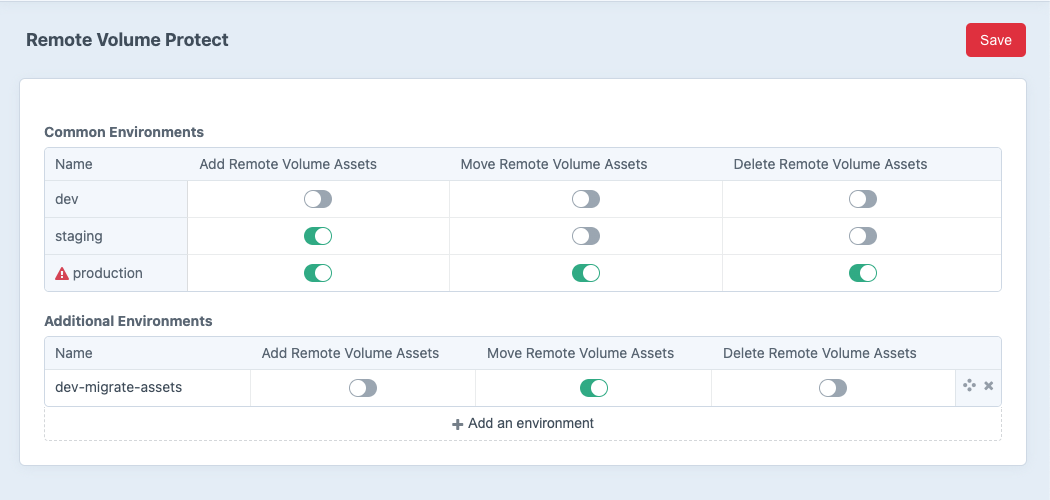
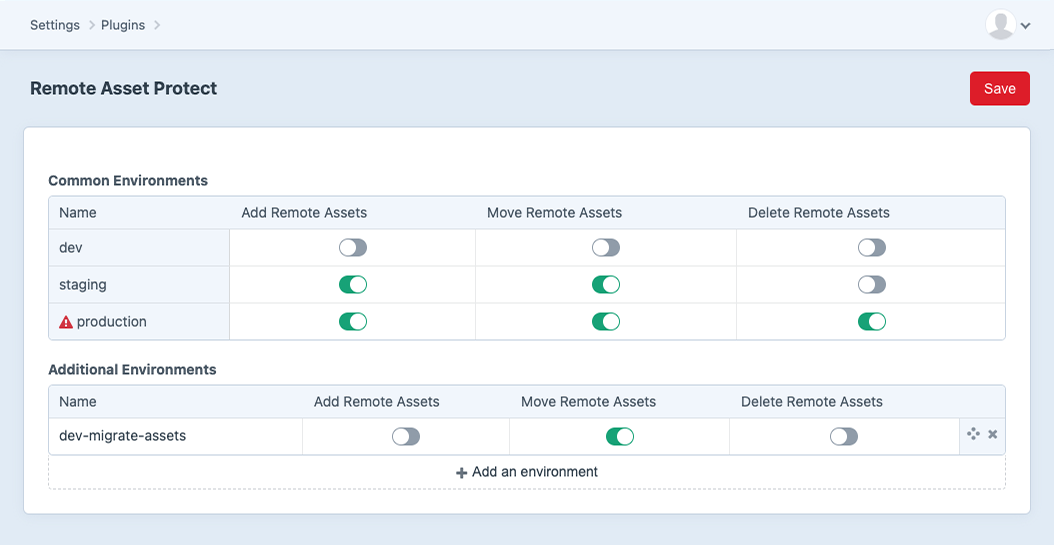
Rename plugin
- Rename plugin from `remote-volume-protect` to `remote-asset-protect`.

diff --git a/src/RemoteAssetProtect.php b/src/RemoteAssetProtect.php
@@ -1,5 +1,5 @@
 <?php
-namespace williamisted\remotevolumeprotect;
+namespace williamisted\remoteassetprotect;
 
 use Craft;
 use craft\elements\Asset;
@@ -10,9 +10,9 @@ use craft\services\Volumes;
 use craft\web\twig\variables\CraftVariable;
 use yii\base\Event;
 
-use williamisted\remotevolumeprotect\models\Settings;
+use williamisted\remoteassetprotect\models\Settings;
 
-class RemoteVolumeProtect extends craft\base\Plugin
+class RemoteAssetProtect extends craft\base\Plugin
 {
     public $settingsSchema = '1.0.0';
 
@@ -49,7 +49,7 @@ class RemoteVolumeProtect extends craft\base\Plugin
         $this->commonEnvironments[1][0] = 'staging';
         $this->commonEnvironments[2][0] = 'production';
 
-        $this->uncommonEnvironments = $this->getSettings()->uncommonEnvironments;
+        $this->uncommonEnvironments = $this->getSettings()->uncommonEnvironments ?: [];
 
         foreach ( array_merge( $this->commonEnvironments, $this->uncommonEnvironments ) as $env ) {
             $this->environments[ $env[0] ] = $env;
@@ -61,7 +61,7 @@ class RemoteVolumeProtect extends craft\base\Plugin
             function (craft\events\PluginEvent $event) {
                 
                 // Respect existing project config.
-                if ( Craft::$app->projectConfig->get('plugins.remotevolumeprotect', true) === null ) {
+                if ( Craft::$app->projectConfig->get('plugins.remoteassetprotect', true) === null ) {
                     $this->initSettings = true;
                 }
 
@@ -73,7 +73,7 @@ class RemoteVolumeProtect extends craft\base\Plugin
             Plugins::EVENT_AFTER_INSTALL_PLUGIN,
             function (craft\events\PluginEvent $event) {
 
-                if ('remotevolumeprotect' === $event->plugin->handle) {
+                if ('remoteassetprotect' === $event->plugin->handle) {
                 
                     // Was existing project config found? Should plugin initialize defaults
                     if ( $this->initSettings ) {
@@ -203,7 +203,7 @@ class RemoteVolumeProtect extends craft\base\Plugin
 
     protected function settingsHtml(): string
     {
-        return Craft::$app->getView()->renderTemplate('remotevolumeprotect/_settings', [
+        return Craft::$app->getView()->renderTemplate('remoteassetprotect/_settings', [
             'settings' => $this->getSettings(),
         ]);
     }

diff --git a/src/models/Settings.php b/src/models/Settings.php
@@ -1,5 +1,5 @@
 <?php
-namespace williamisted\remotevolumeprotect\models;
+namespace williamisted\remoteassetprotect\models;
 
 use craft\base\Model;
 

diff --git a/README.md b/README.md
@@ -1,8 +1,8 @@
-# Remote Volume Protect for Craft CMS
+# Remote Asset Protect for Craft CMS
 
-<img alt="Icon of a red shield containing a padlock depicting an asset being locked" width="100" src="https://raw.githubusercontent.com/WilliamIsted/craft-remote-volume-protect/craft-3/src/icon.svg">
+<img alt="Icon of a red shield containing a padlock depicting an asset being locked" width="100" src="https://raw.githubusercontent.com/WilliamIsted/craft-remote-asset-protect/craft-3/src/icon.svg">
 
-Spaces, beware: Remote Volume Protect is here! This Craft CMS plugin protects your remote volumes from accidental deletions by developers on dev and staging environments.
+Never accidentally delete assets again. Spaces, beware: Remote Asset Protect is here! This Craft CMS plugin protects your remote assets from accidental deletion by developers on dev, staging and other environments.
 
 Keep your assets safe and secure.
 
@@ -16,8 +16,8 @@ Keep your assets safe and secure.
 To install the plugin, follow these steps:
 
 1. Open your terminal and navigate to your Craft project directory.
-2. Run the command `composer require williamisted/remotevolumeprotect`
-3. In the Craft Control Panel, go to Settings → Plugins and click the "Install" button for Remote Volume Protect.
+2. Run the command `composer require williamisted/remoteassetprotect`
+3. In the Craft Control Panel, go to Settings → Plugins and click the "Install" button for Remote Asset Protect.
 
 ## Usage
 
@@ -25,7 +25,7 @@ To install the plugin, follow these steps:
 
 ## Screenshots
 
-![Settings page for Remote Volume Protect showing toggle switches for environment permissions](https://raw.githubusercontent.com/WilliamIsted/craft-remote-volume-protect/craft-3/.github/SCREENSHOTS/settings_001.png "Plugin settings page in Craft CMS")
+![Settings page for Remote Asset Protect showing toggle switches for environment permissions](https://raw.githubusercontent.com/WilliamIsted/craft-remote-asset-protect/craft-3/.github/SCREENSHOTS/settings_001.png "Plugin settings page in Craft CMS")
 
 ## Credits and Acknowledgements
 
@@ -33,7 +33,7 @@ This plugin was developed with the help of ChatGPT, a conversational AI trained 
 
 ## Support and Contribution
 
-- For support, please check [existing discussions](https://github.com/WilliamIsted/craft-remote-volume-protect/discussions) for similar questions or [open a new discussion](https://github.com/WilliamIsted/craft-remote-volume-protect/discussions/new/choose).
+- For support, please check [existing discussions](https://github.com/WilliamIsted/craft-remote-asset-protect/discussions) for similar questions or [open a new discussion](https://github.com/WilliamIsted/craft-remote-asset-protect/discussions/new/choose).
 
 ## License
 

diff --git a/CHANGELOG.md b/CHANGELOG.md
@@ -1,4 +1,4 @@
-# Remote Volume Protect Changelog
+# Remote Asset Protect Changelog
 
 ## [Unreleased]
 
@@ -6,7 +6,7 @@
 
 ### Pending
 
-* Initial release of the Remote Volume Protect plugin.
+* Initial release of the Remote Asset Protect plugin.
 * Ability to prevent deletion of assets on remote volumes in use by the production site.
 * Ability to specify which environment(s) the protection should be disabled on. Protection is on by default for non-production sites.
 * Ability to customise the error message displayed to developers who attempt to delete protected assets.
@@ -24,5 +24,5 @@
 
 - None.
 
-[Unreleased]: https://github.com/WilliamIsted/craft-remote-volume-protect/compare/v1.0.0...HEAD
-[1.0.0]: https://github.com/WilliamIsted/craft-remote-volume-protect/releases/tag/v1.0.0
+[Unreleased]: https://github.com/WilliamIsted/craft-remote-asset-protect/compare/v1.0.0...HEAD
+[1.0.0]: https://github.com/WilliamIsted/craft-remote-asset-protect/releases/tag/v1.0.0
